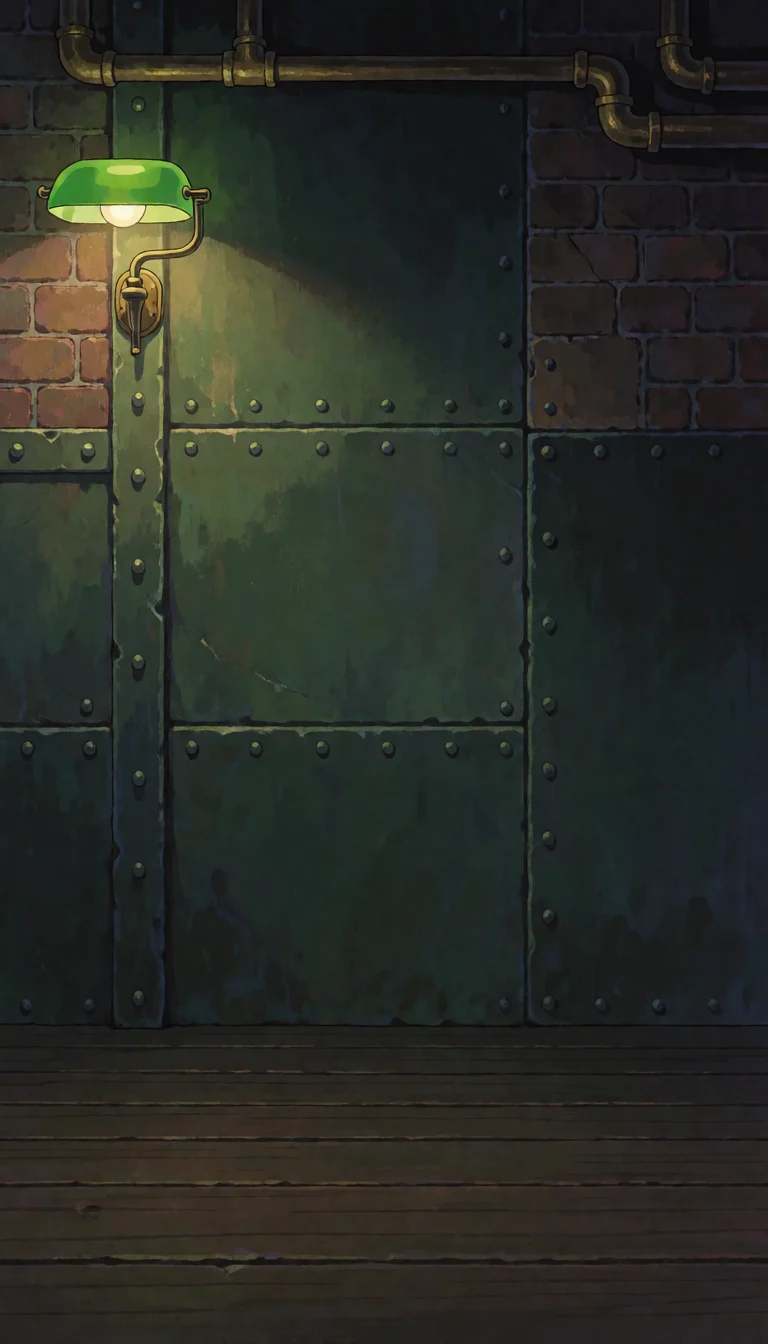
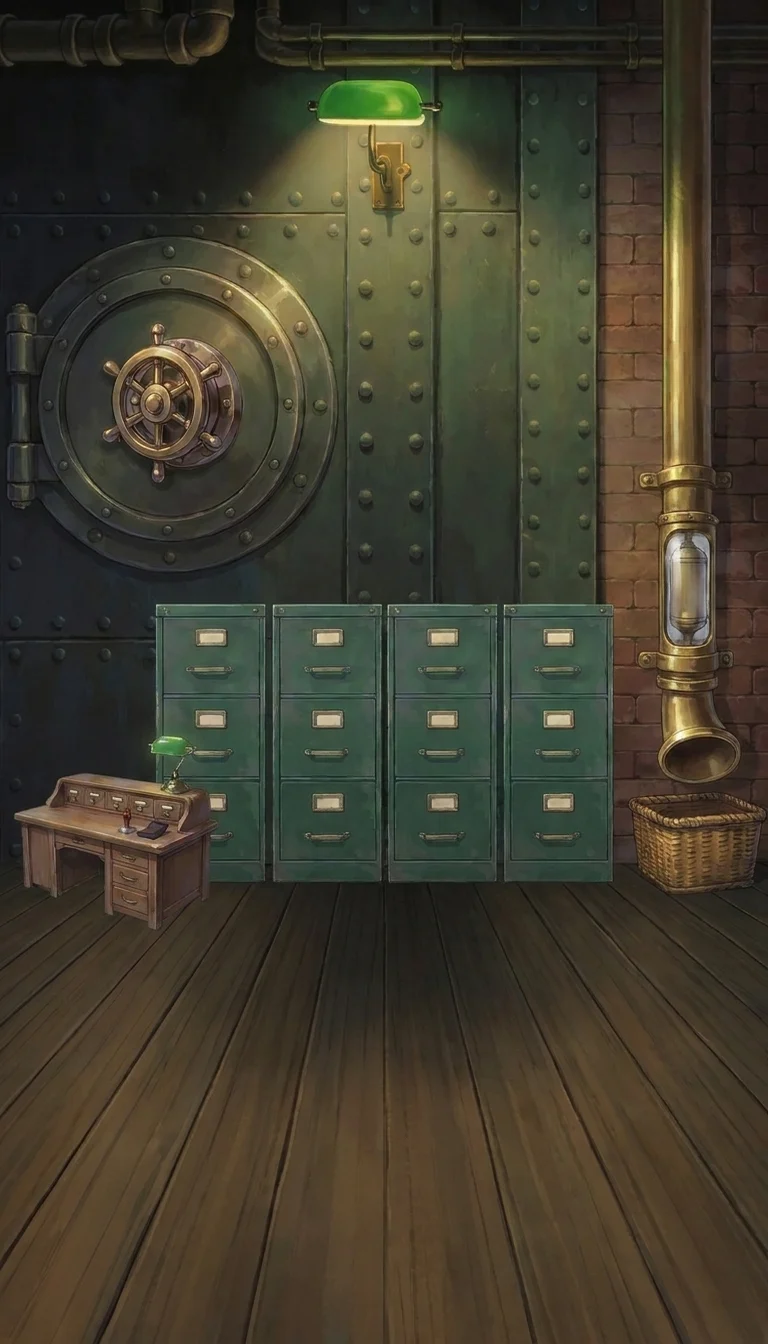
Rush, claim 6: the vault repainted as one room (door, cabinets, tube, basket and desk painted in), layouts measured off it
Claude-Session: https://claude.ai/code/session_01JTmPY97Ydb1cE7nuacW8cg

diff --git a/game/js/rush.js b/game/js/rush.js
@@ -17,7 +17,7 @@
     // The Records Vault's own props: Ladi's Sogni renders, packed by tools/rush_vault_pack.py (tools/rush_vault_art.js drew the first placeholders).
     'v-folder': 'assets/img/rush/vault/folder.webp', 'v-folder-done': 'assets/img/rush/vault/folder-done.webp', 'v-folder-bounced': 'assets/img/rush/vault/folder-bounced.webp',
     'v-drawer': 'assets/img/rush/vault/drawer.webp', 'v-cart': 'assets/img/rush/vault/cart.webp', 'v-cart-bolted': 'assets/img/rush/vault/cart-bolted.webp',
-    'v-desk': 'assets/img/rush/vault/desk.webp', 'v-cabinet': 'assets/img/rush/vault/cabinet.webp', 'v-tube': 'assets/img/rush/vault/tube.webp', 'v-wheel': 'assets/img/rush/vault/wheel.webp',
+    'v-desk': 'assets/img/rush/vault/desk.webp',
     'dutch-neutral': 'assets/img/portraits/dutch-neutral.webp', 'dutch-smile': 'assets/img/portraits/dutch-smile.webp',
     'dutch-tired': 'assets/img/portraits/dutch-tired.webp', 'dutch-surprised': 'assets/img/portraits/dutch-surprised.webp', 'dutch-angry': 'assets/img/portraits/dutch-angry.webp'
   };
@@ -59,26 +59,28 @@
   // wheeled step stools by her records desk. The night starts with a turn of the vault-door wheel (lever, wheel: true).
   // Four cabinets on the back wall are the table's partitions (cabs: each one's centre and floor line), and the
   // on-demand dial sits by them.
+  // The vault's door, wheel, cabinets, tube, basket and desk are painted into the backdrop (painted: true), so they sit
+  // in the room; the positions below are measured off the painting. Only the pieces that move or get bought are sprites.
   const VAULT_WIDE = {
-    W: 1344, H: 768, bg: 'vault-wide', art: 'vault',
-    chute: [[1186, 130], [1186, 470]], foot: [1176, 622], hatch: [1186, 170],
-    lever: { x: 150, y: 250, r: 100, wheel: true, label: [150, 390] },
-    clerk: { x: 1040, y: 642, h: 170 }, puddle: { x: 640, y: 712 },
-    rack: { x: 900, y: 640, h: 190 }, stools: { xs: [784, 726, 668, 610, 552, 494], y: 644, h: 70 },
-    desk: { x: 360, y: 644, h: 170 }, tank: { x: 1292, y: 330, h: 200, feed: 0 }, bin: { x: 790, y: 750, h: 96 },
-    bell: { x: 970, y: 744, h: 64 }, tray: [1090, 716], reports: [1040, 110],
-    cabs: { at: [[735, 400], [845, 400], [955, 400], [1065, 400]], w: 94, h: 170 }, dial: [650, 300], inset: INSET_WIDE,
+    W: 1344, H: 768, bg: 'vault-wide', art: 'vault', painted: true,
+    chute: [[1153, 250], [1153, 470]], foot: [1153, 596], hatch: [1153, 440],
+    lever: { x: 176, y: 370, r: 62, wheel: true, label: [176, 545] },
+    clerk: { x: 1010, y: 655, h: 150 }, puddle: { x: 330, y: 715 },
+    rack: { x: 880, y: 656, h: 170 }, stools: { xs: [760, 702, 644, 586, 528, 470], y: 652, h: 56 },
+    desk: { x: 329, y: 660, h: 165 }, tank: { x: 440, y: 330, h: 190 }, bin: { x: 1262, y: 745, h: 90 },
+    bell: { x: 1150, y: 744, h: 64 }, tray: [1090, 716], reports: [1040, 110],
+    cabs: { at: [[547, 603], [672, 603], [796, 603], [920, 603]], w: 117, h: 285 }, dial: [735, 268], inset: INSET_WIDE,
     belt: { h: 100, slot: 116 }, title: [36, 26], handled: [1250, 46], say: { x: 400, y: 36, w: 600 }, fs: 1
   };
   const VAULT_TALL = {
-    W: 768, H: 1344, bg: 'vault-tall', art: 'vault',
-    chute: [[470, 330], [470, 800]], foot: [470, 992], hatch: [470, 370],
-    lever: { x: 124, y: 560, r: 106, wheel: true, label: [124, 700] },
-    clerk: { x: 104, y: 1180, h: 118 }, puddle: { x: 540, y: 1076 },
-    rack: { x: 320, y: 1012, h: 170 }, stools: { xs: [600, 545, 490, 435, 380, 325], y: 1180, h: 64 },
-    desk: { x: 672, y: 1034, h: 150 }, tank: { x: 290, y: 640, h: 150, feed: 330 }, bin: { x: 236, y: 1180, h: 78 },
-    bell: { x: 560, y: 1104, h: 60 }, tray: [200, 1100], filterLabel: [320, 820], reports: [690, 120],
-    cabs: { at: [[606, 548], [712, 548], [606, 728], [712, 728]], w: 90, h: 150 }, dial: [664, 800], inset: INSET_TALL,
+    W: 768, H: 1344, bg: 'vault-tall', art: 'vault', painted: true,
+    chute: [[697, 500], [697, 760]], foot: [697, 858], hatch: [697, 740],
+    lever: { x: 160, y: 400, r: 62, wheel: true, label: [160, 585] },
+    clerk: { x: 330, y: 1162, h: 110 }, puddle: { x: 400, y: 1120 },
+    rack: { x: 100, y: 1150, h: 140 }, stools: { xs: [480, 428, 376, 324, 272, 220], y: 1010, h: 50 },
+    desk: { x: 115, y: 928, h: 160 }, tank: { x: 470, y: 395, h: 160 }, bin: { x: 470, y: 1165, h: 70 },
+    bell: { x: 560, y: 1104, h: 60 }, tray: [560, 960], filterLabel: [320, 820], reports: [690, 120],
+    cabs: { at: [[211, 879], [328, 879], [443, 879], [559, 879]], w: 108, h: 273 }, dial: [470, 560], inset: { r: [528, 985, 228, 190], src: INSET_TALL.src },
     belt: { h: 150, slot: 162 }, coinsAt: [470, 50], title: [24, 24], handled: [690, 50], say: { x: 16, y: 196, w: 736 }, fs: 1.7
   };
   // Each room's props by the name the cellar uses for them. A missing file falls back to the cellar's.
@@ -691,8 +693,10 @@
       cx.save(); cx.globalAlpha = leverT; cx.strokeStyle = '#ffe066'; cx.lineWidth = 7; cx.beginPath(); cx.arc(px, py, Rr, -1.3, 0.45); cx.stroke(); cx.restore();
     }
     // The vault's wheel turns half a turn when the night starts. The tube is its entry.
-    if (L.lever.wheel) img('v-wheel', L.lever.x, L.lever.y, L.lever.r * 1.7, 'mm', 1, S.started ? (1 - leverT) * Math.PI : 0);
-    if (L.art === 'vault') { const [a, b] = L.chute, h = b[1] - a[1] + 40; img('v-tube', a[0], b[1] + 40, h, 'mb'); }
+    if (L.lever.wheel && bg && !mini && S.started && leverT > 0) { // the painted wheel turns: a round cut of the backdrop, rotated
+      const { x, y, r } = L.lever; cx.save(); cx.beginPath(); cx.arc(x, y, r, 0, Math.PI * 2); cx.clip(); cx.translate(x, y); cx.rotate((1 - leverT) * Math.PI);
+      cx.drawImage(bg, -x, -y, L.W, L.H); cx.restore();
+    }
     // The Night Clerk, with his four stools' worth of papers.
     shadow(L.clerk.x, L.clerk.y + 2, L.clerk.h * .9); img('clerk', L.clerk.x, L.clerk.y + 6, L.clerk.h, 'mb');
     // The puddle grows with every lost request.
@@ -708,7 +712,7 @@
       plaque(word('rack', 'Rack') + ' · SQS queue', L.rack.x, L.rack.y - L.rack.h - 16 * L.fs);
     } else if (dragging === 'rack' || (!drag && !S.started && !S.placed.length)) glowSpot(spot('rack'), dragging === 'rack');
     // Mira's desk and the six stools.
-    shadow(L.desk.x, L.desk.y + 2, L.desk.h * 1.05); img('desk', L.desk.x, L.desk.y + 8, L.desk.h, 'mb');
+    if (!L.painted) { shadow(L.desk.x, L.desk.y + 2, L.desk.h * 1.05); img('desk', L.desk.x, L.desk.y + 8, L.desk.h, 'mb'); }
     plaque('Mira', L.desk.x, L.desk.y - L.desk.h - 4);
     if (S.ledger) {
       const d = L.desk; img('ledger', d.x - d.h * .1, d.y - d.h * .78, 0, 'mm', 1, -0.05, d.h * .62);
@@ -813,12 +817,12 @@
     c.at.forEach((a, i) => {
       const cab = S.cabs[i], x0 = a[0] - c.w / 2, y0 = a[1] - c.h, load = Math.min(1.5, cab.heat / (rate * 1.5)), hot = load > 1;
       cx.save();
-      shadow(a[0], a[1] + 2, c.w * 1.1);
+      if (!L.painted) shadow(a[0], a[1] + 2, c.w * 1.1);
       const g = cx.createLinearGradient(x0, 0, x0 + c.w, 0); g.addColorStop(0, '#1f3a30'); g.addColorStop(.5, '#2f5646'); g.addColorStop(1, '#1a3128');
-      if (IMG['v-cabinet']) { cx.drawImage(IMG['v-cabinet'], x0, y0, c.w, c.h); if (hot) { rrect(x0, y0, c.w, c.h, 6); cx.lineWidth = 4; cx.strokeStyle = '#e0644f'; cx.stroke(); } }
+      if (L.painted) { if (hot) { rrect(x0, y0, c.w, c.h, 6); cx.lineWidth = 4; cx.strokeStyle = '#e0644f'; cx.stroke(); } }
       else rrect(x0, y0, c.w, c.h, 6), cx.fillStyle = g, cx.fill(), cx.lineWidth = 4, cx.strokeStyle = hot ? '#e0644f' : '#0d1a14', cx.stroke();
       // Without the sprite: three drawers with brass pulls.
-      for (let j = 0; !IMG['v-cabinet'] && j < 3; j++) {
+      for (let j = 0; !L.painted && j < 3; j++) {
         const dy = y0 + 8 + j * (c.h - 16) / 3, dh = (c.h - 16) / 3 - 6;
         rrect(x0 + 7, dy, c.w - 14, dh, 4); cx.fillStyle = 'rgba(10,22,16,.45)'; cx.fill(); cx.lineWidth = 2; cx.strokeStyle = 'rgba(160,200,170,.25)'; cx.stroke();
         cx.fillStyle = '#c9a23a'; rrect(a[0] - 14, dy + dh * .62, 28, 6, 3); cx.fill();
@@ -1042,7 +1046,7 @@
       cx.save(); cx.beginPath(); cx.arc(x, y, 10 * L.fs, 0, Math.PI * 2); cx.fillStyle = i < S.wave ? '#ffd666' : 'rgba(50,44,60,.9)'; cx.fill();
       cx.lineWidth = 3; cx.strokeStyle = '#000'; cx.stroke(); cx.restore();
     }
-    img('envDone', L.handled[0] - 30 - 16 * L.fs, L.handled[1], 0, 'mm', 1, 0, 52 * L.fs);
+    img('envDone', L.handled[0] - 30 - 16 * L.fs, L.handled[1], 0, 'mm', 1, 0, (L.art === 'vault' ? 40 : 52) * L.fs);
     text(String(S.handled), L.handled[0], L.handled[1], 34, '#bff5b4', 'left');
     if (S.claim === 'bell' || S.claim === 'picky') { plaque('Reports ' + S.reports, L.reports[0] - 10, L.reports[1]); }
     if (S.started && S.close) {

diff --git a/game/tools/rush_vault_pack.py b/game/tools/rush_vault_pack.py
@@ -11,13 +11,12 @@ from PIL import Image, ImageFilter
 
 GAME = os.path.dirname(os.path.dirname(os.path.abspath(__file__)))
 OUT = os.path.join(GAME, 'assets/img/rush')
-BACK = {'vault-wide-1.png': ('vault-wide.webp', (1344, 768)), 'vault-tall-1.png': ('vault-tall.webp', (768, 1344))}
+BACK = {}  # the backdrops are now painted with their fixtures (see CREDITS.md), not packed here
 PROPS = {  # take: (file, box w, box h)
     'vault-folder-2.png': ('folder', 220, 166), 'vault-folder-done-1.png': ('folder-done', 220, 166),
     'vault-folder-bounced-2.png': ('folder-bounced', 220, 166), 'vault-drawer-2.png': ('drawer', 216, 320),
-    'vault-cabinet-1.png': ('cabinet', 188, 340), 'vault-cart-1.png': ('cart', 116, 130),
-    'vault-cart-bolted-2.png': ('cart-bolted', 116, 130), 'vault-desk-1.png': ('desk', 302, 300),
-    'vault-tube-2.png': ('tube', 120, 560), 'vault-wheel-1.png': ('wheel', 260, 260)}
+    'vault-cart-1.png': ('cart', 116, 130),
+    'vault-cart-bolted-2.png': ('cart-bolted', 116, 130), 'vault-desk-1.png': ('desk', 302, 300),}
 
 
 def cutout(im, tol=34):

diff --git a/game/CREDITS.md b/game/CREDITS.md
@@ -97,7 +97,8 @@ Everything here was first made for or gathered by the first game, [Isekai'd Into
 | The Sorting Floor's room pieces (`assets/img/floor/chute`, `router`, `bell`, `lever`, `nightclerk`, `mop`, `.webp`): the ticket chute, the router's tube junction, Fan-Out's bell, the lever, the Night Clerk and the mop | Generated for this game with [PixelLab](https://pixellab.ai) on Ladi's subscription on 2026-11-16 (`generate-image-v2` on a clear background, with Incident Commander's clerk's desk as the style image; `tools/floor_room_art.py`, one job and one pick per piece), with hard alpha edges and trimmed; converted to lossless WebP | Used under PixelLab's [Terms of Service](https://pixellab.ai/termsofservice) | The Sorting Floor (`js/mode-floor.js`). The floor also uses Incident Commander's desk, stools, rack, bin, gate and envelopes (`assets/img/ic-live`, credited above). |
 | The Rush prototype's room and props (`assets/img/rush`): the cellar sorting room with its chute and lever painted in, wide and tall (`room-wide.webp`, `room-tall.webp`), and Mira's desk, a stool, a bolted stool, the rack, the bin, the bell, the Night Clerk, the error-budget tank, the puddle and three envelopes (sealed, bounced, done) | Generated by Ladi with [Sogni](https://www.sogni.ai) text-to-image (krea2turbo) on 2026-11-16, from prompts written for this game; one pick per item, props cut out from their plain backgrounds, resized and converted to WebP; the error-budget tank (`tank.webp`) replaced later that day with Ladi's second Sogni pick, a gauge mounted flat on an iron backplate (the first one's side bracket had no wall to hold) | Generated for this game; used under Sogni's terms for generated output | The Rush prototype (`rush.html`, `js/rush.js`) |
 | The Rush prototype's loading dock, where the Slow Courier plays (`assets/img/rush/dock-wide.webp`, `dock-tall.webp`) | Painted for this game by Google's Gemini image model (gemini-3-pro-image) through the Gemini API on Ladi's account on 2026-11-17 (`tools/rush_room_art.py`): each an edit of the cellar room above at the same framing (chute, lever and floor kept), the back wall turned into a half-raised rolling shutter onto a rainy alley; scaled to the game's size and converted to WebP | Used under the [Gemini API Additional Terms of Service](https://ai.google.dev/gemini-api/terms) | The Rush prototype, claim 4 (`rush.html`, `js/rush.js`) |
-| The Rush's Records Vault, claim 6 (`assets/img/rush/vault-wide.webp`, `vault-tall.webp`, and the props in `assets/img/rush/vault/`: three record folders, the filing drawer, the cabinet, two step stools, the records desk, the pneumatic tube and the vault wheel) | Generated with Sogni AI (krea2_turbo_fp8_scaled) on Ladi's account on 2026-11-17, from prompts written for this game (project files real-game/v3/claims/claim-6/sogni-prompts.md); one take picked from two for each, props cut out of their plain backgrounds and resized by `tools/rush_vault_pack.py`, converted to WebP | Generated for this game; used under Sogni's terms for generated output | The Rush prototype, claim 6 (`rush.html`, `js/rush.js`) |
+| The Rush's Records Vault, claim 6: the props in `assets/img/rush/vault/` (three record folders, the filing drawer, two step stools, the records desk) | Generated with Sogni AI (krea2_turbo_fp8_scaled) on Ladi's account on 2026-11-17, from prompts written for this game (project files real-game/v3/claims/claim-6/sogni-prompts.md); one take picked from two for each, cut out of their plain backgrounds and resized by `tools/rush_vault_pack.py`, converted to WebP | Generated for this game; used under Sogni's terms for generated output | The Rush prototype, claim 6 (`rush.html`, `js/rush.js`) |
+| The Records Vault's room (`assets/img/rush/vault-wide.webp`, `vault-tall.webp`) with its vault door, four filing cabinets, pneumatic tube, mail basket and desk painted in | Ladi's Sogni vault backdrop and props above, laid out as a rough collage, then repainted as one room by Google's Gemini image model (gemini-3-pro-image-preview) through the Gemini API on Ladi's account on 2026-11-17 (two edits for the wide room; the tall one recomposed from the wide); scaled to the game's size and converted to WebP | Sogni's terms for the source images; the [Gemini API Additional Terms of Service](https://ai.google.dev/gemini-api/terms) for the edits | The Rush prototype, claim 6 (`rush.html`, `js/rush.js`) |
 | The Rush prototype's sound (`rush.html`) | No new files: it reuses recordings already credited here, the Sorting Floor's `m-floor` loop and its `j-floor-win` and `j-floor-lose` stings (Mureka), the rain bed `a-rain`, and the samples `s-x-lever`, `s-x-bell`, `s-x-stamp`, `s-x-page`, `s-x-lock`, `s-x-tick`, `s-x-chime`, `s-thud`, `s-clank2`, `s-coin`, `s-right` and `s-wrong`, with the synth in `js/audio.js` for the rest | As credited on each file's own line | The Rush prototype (`js/rush.js`) |
 
 Everything else is drawn in code: portraits for characters without a painted one and the System windows in `js/art.js` and `index.html`, chapter 1's whole overworld (the ground, river, buildings, props, the temple, and every character walking about) in `js/ch1-art.js`, and the Deny Mines' enemies in `js/ch1-mines-art.js`.
